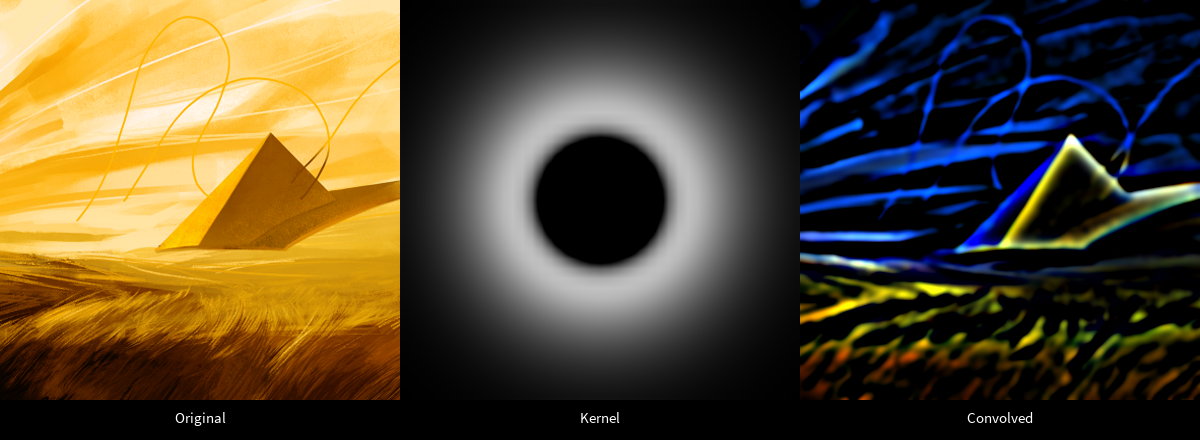
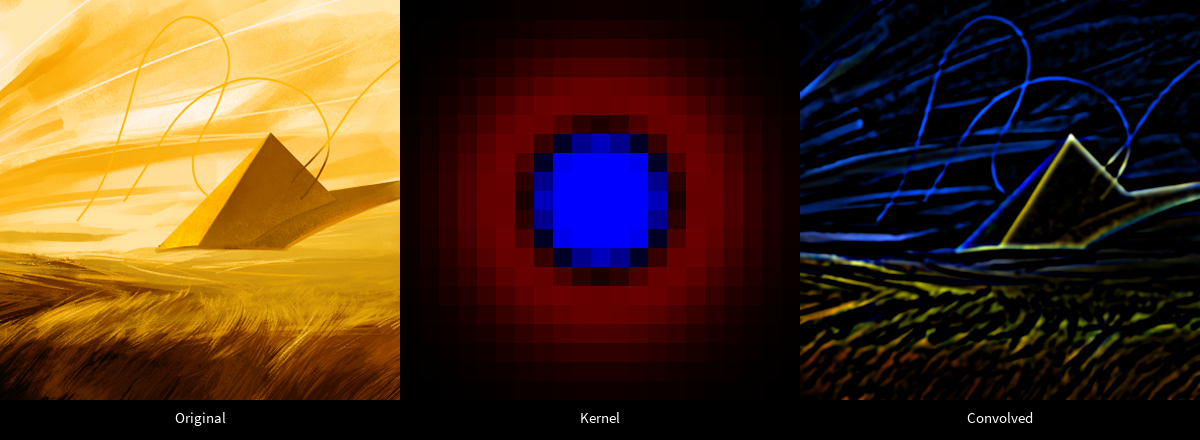
changed mono channel->RGB default

diff --git a/src/sampleutils/VecImage.java b/src/sampleutils/VecImage.java
@@ -17,7 +17,7 @@ public class VecImage {
 	public int channels;
 	
 	public EdgeModes edgeMode = EdgeModes.CLAMP;
-	public FilterModes filterMode = FilterModes.BILINEAR;
+	public FilterModes filterMode = FilterModes.NEAREST;
 	public BCSplineModes BCSplineMode = BCSplineModes.MITCHELL_NETRAVALI;
 
 	public float BC_SPLINE_B = 0.f;
@@ -121,7 +121,7 @@ public class VecImage {
 							255);
 				else if(channels == 1)
 					output[x + y * width] = color((int) (pixels[x][y].components[0]),
-							(int) (pixels[x][y].components[0]), (int) (pixels[x][y].components[0]),
+							0*(int) (pixels[x][y].components[0]), (int) -(pixels[x][y].components[0]),
 							255);
 			}
 		return output;
